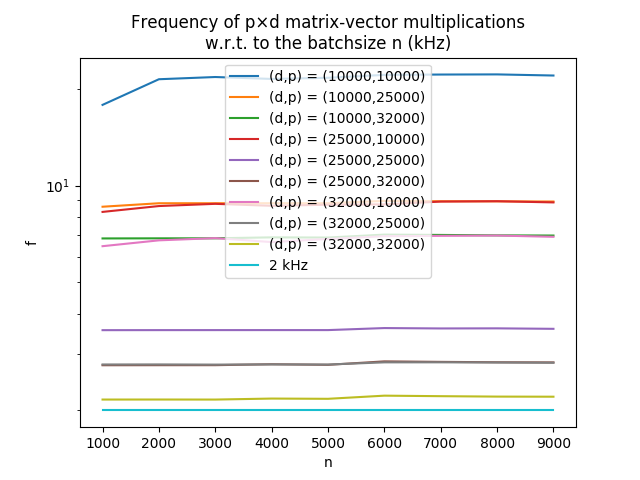
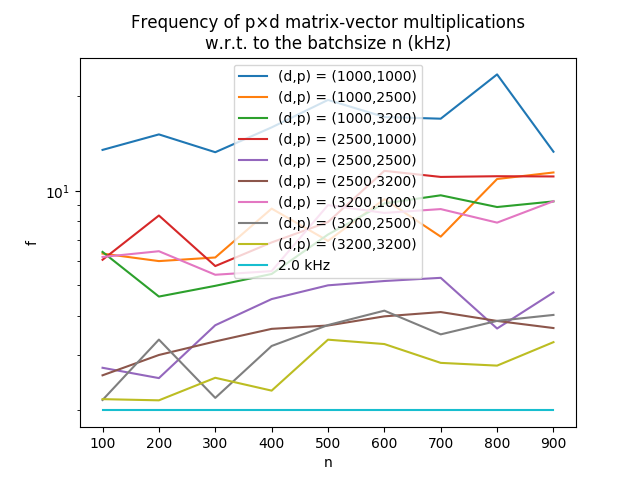
lighton test

diff --git a/opu-gpu_energy/lighton_generate_plot.py b/opu-gpu_energy/lighton_generate_plot.py
@@ -1,0 +1,147 @@
+import matplotlib.pyplot as plt
+from matplotlib.colors import ListedColormap
+
+import pandas as pd
+import numpy as np
+
+import pickle
+
+
+# define the parameters to be used
+max_input_size = 1e6
+max_output_size = 2e6
+gen = 2
+if gen == 2:
+    opu_text = "Gen 2 (2kHz)"
+elif gen == 3:
+    opu_text = "Gen 3 (up to 8kHz)"
+
+gpu_model = "NVIDIA Tesla V100 16GB"
+cpu_model = "Intel Xeon E5-1650 v3 3.50GHz"
+ram = 126
+
+# load timings and compute frequencies for CPU and GPU
+res = pickle.load(open('gpu_timings.pkl', 'rb'))
+s = pd.Series(res)
+x = 1 / s.unstack()
+x_gpu = x.values
+
+res = pickle.load(open('cpu_timings.pkl', 'rb'))
+s = pd.Series(res)
+x = 1 / s.unstack()
+x_cpu = x.values
+
+# experiments for CPU and GPU have been performed on the same ranges of input and output sizes
+input_sizes = s.unstack().index.values
+output_sizes = s.unstack().columns.values
+
+
+def get_opu_speed(input_size, output_size, gen='2'):
+    """
+    Function returning the speed in kHz at which the OPU can be used for given input and output sizes.
+    We assume input_size <= 1M and output_size <= 2M (i.e. the OPU can be used).
+    """
+
+    if gen == 2:
+        return 2
+    elif gen == 3:
+        if input_size <= 145e3 and output_size <= 81e3:
+            return 8
+        elif input_size <= 290e3 and output_size <= 81e3:
+            return 6.3
+        elif input_size <= 583e3 and output_size <= 163e3:
+            return 3.8
+        elif input_size <= 1e6 and output_size <= 326e3:
+            return 1.9
+        elif input_size <= 1e6 and output_size <= 600e3:
+            return 1
+        else:
+            return 0.34
+    else:
+        raise ValueError("gen must be 2 or 3")
+
+
+# compute the matrix telling us which device is the fastest depending on input and output size
+C = np.empty((len(input_sizes), len(output_sizes)), dtype=np.int)
+for i, n in enumerate(input_sizes):
+    for j, m in enumerate(output_sizes):
+        cpu = x_cpu[i, j] / 1000
+        gpu = x_gpu[i, j] / 1000
+
+        if np.isnan(gpu) and np.isnan(cpu):  # if nor CPU nor GPU works, just check if OPU does
+            if n <= max_input_size and m <= max_output_size:
+                C[i, j] = 2  # OPU
+            else:
+                C[i, j] = 3  # nothing
+            continue
+        elif np.isnan(gpu):
+            max_speed = cpu
+        else:  # gpu is always nan when cpu is, so no need for another elif
+            max_speed = max(cpu, gpu)
+
+        if n <= max_input_size and m <= max_output_size and max_speed <= get_opu_speed(n, m, gen):
+            C[i, j] = 2
+        else:
+            if x_cpu[i, j] < x_gpu[i, j]:
+                C[i, j] = 1
+            else:
+                C[i, j] = 0
+
+# in my experiments, we weren't interested in all the input and output sizes I computed
+start_r, end_r = 2, 13  # for output size (rows in the graph)
+start_c, end_c = 4, 13  # for input size (columns in the graph)
+
+# take coordinates we're interested in and transpose so coordinates correspond to what we want in the graph
+# that is: input size horizontally (columns) and output size vertically (rows)
+D = C[start_c:end_c,start_r:end_r].T
+a = np.maximum(x_cpu, x_gpu)[start_c:end_c, start_r:end_r]
+n, m = a.shape
+
+# we now correct the fact that np.maximum propagates NaNs
+b = a.copy()
+reduced_cpu = x_cpu[start_c:end_c, start_r:end_r]
+for i in range(n):
+    for j in range(m):
+        if np.isnan(a[i,j]) and not np.isnan(reduced_cpu[i,j]):
+            b[i,j] = reduced_cpu[i,j]
+b = b.T
+
+# the actual plotting begins here
+fig, ax = plt.subplots(figsize=(18, 18))
+
+# depending on what you plot, you can have 3 or 4 colors, uncomment what you need
+#cmap = ListedColormap(['lightblue', 'orange', 'green', 'black'])
+cmap = ListedColormap(['lightblue', 'orange', 'green'])
+cax = ax.matshow(D, cmap=cmap, origin='lower')
+
+# the magic numbers make the bar as tall as the plot
+#cbar = fig.colorbar(cax, ticks=np.linspace(0,3,9)[1::2], fraction=0.046, pad=0.04)
+#cbar.ax.set_yticklabels((['CPU', 'GPU', 'OPU', 'None']), fontsize=12)
+cbar = fig.colorbar(cax, ticks=np.linspace(0,2,7)[1::2], fraction=0.046, pad=0.04)
+cbar.ax.set_yticklabels((['CPU', 'GPU', 'OPU']), fontsize=12)
+
+ax.xaxis.tick_bottom()
+ax.set_xticks(np.arange(n))
+ax.set_xticklabels(['{:.1e}'.format(s) for s in input_sizes[start_c:end_c]], fontsize=14)
+ax.set_yticks(np.arange(m))
+ax.set_yticklabels(['{:.1e}'.format(s) for s in output_sizes[start_r:end_r]], fontsize=14)
+
+ax.set_xlabel('Input size', fontsize=14)
+ax.set_ylabel('Output size', fontsize=14)
+
+title = "Frequency of matrix-vector multiplication in kHz, and speed-up provided by OPU"
+ax.set_title('{}\nOPU: {}\nGPU: {}\nCPU: {} ({} RAM)'.format(title, opu_text, gpu_model, cpu_model, ram), fontsize=18)
+
+for i in range(n):
+    for j in range(m):
+        # about the use of i and j: dude, trust me
+        if D[j,i] == 2:
+            # speedup provided by the OPU in the zone it is fastest
+            c = 1000 * get_opu_speed(input_sizes[i+start_c], output_sizes[j+start_r], gen) / b[j,i]
+        else:
+            c = b[j,i] / 1000
+        ax.text(i, j, '{:.4g}'.format(c), va='center', ha='center', fontsize=15)
+
+plt.tight_layout()
+fig.savefig('test.png')
+

diff --git a/opu-gpu_energy/lighton_speed_test.py b/opu-gpu_energy/lighton_speed_test.py
@@ -1,0 +1,77 @@
+import numpy as np
+import torch
+torch.backends.cudnn.benchmark = True
+torch.cuda.set_device(1)
+from time import time
+import pickle
+
+use_gpu = True
+torch_instead_of_numpy = False  # if use_gpu is False (torch is usually slightly faster than numpy on CPU)
+sizes = np.floor(np.logspace(0, 7, 15)).astype(np.int)
+dry_runs = 10
+averaged_runs = 5
+
+res = {}
+
+for input_size in sizes:
+    print(input_size)
+    try:
+        if use_gpu:
+            x = torch.cuda.FloatTensor(input_size).normal_()
+        else:
+            if torch_instead_of_numpy:
+                x = torch.FloatTensor(input_size).normal_()
+            else:
+                x = np.random.randn(input_size).astype(np.float32)
+
+        for output_size in sizes:
+            print(output_size)
+            if not use_gpu and output_size*input_size>100000:
+                    res[(input_size, output_size)] = 1000000
+            else:
+                try:
+                    if use_gpu:
+                        M = torch.cuda.FloatTensor(output_size, input_size).normal_()
+                    else:
+                        if torch_instead_of_numpy:
+                            M = torch.FloatTensor(output_size, input_size).normal_()
+                        else:
+                            M = np.random.randn(output_size, input_size).astype(np.float32)
+
+                    for i in range(dry_runs):
+                        if use_gpu or torch_instead_of_numpy:
+                            y = torch.mv(M, x)
+                        else:
+                            y = np.dot(M, x)
+
+                    if use_gpu:
+                        torch.cuda.synchronize()
+
+                    times = []
+                    for i in range(averaged_runs):
+                        t1 = time()
+                        if use_gpu or torch_instead_of_numpy:
+                            y = torch.mv(M, x)
+                        else:
+                            y = np.dot(M, x)
+
+                        if use_gpu:
+                            torch.cuda.synchronize()
+                        t2 = time()
+                        times.append(t2-t1)
+
+                    res[(input_size, output_size)] = np.mean(times)
+
+                except:
+                    print('exiting in inner loop')
+                    torch.cuda.empty_cache()
+                    res[(input_size, output_size)] = np.nan
+
+    except:
+        print('exiting in outer loop')
+        torch.cuda.empty_cache()
+        res[input_size] = np.nan
+
+with open('gpu_timings_numpy.pkl', 'wb') as f:
+    pickle.dump(res, f)
+

diff --git a/opu-gpu_energy/optimal_batchsize_gpu.py b/opu-gpu_energy/optimal_batchsize_gpu.py
@@ -17,9 +17,9 @@ def sync():
 ### EXPERIMENT SETTINGS
 # -------------
 repetitions = 1 # repeat the whole experiment and take the mean. Hurt GPU memory (ctrl-F "x.to(device)")
-n_list = [1000*(i+1) for i in range(9)] # Number of points to be projected
-d_list = [10000,25000,32000] # Their dimension
-p_list = [10000,25000,32000] # Dimension of their projections # [100,320,1000]#
+n_list = tuple(1000*(i+1) for i in range(9)) # Number of points to be projected
+d_list = (10000,25000,32000) # Their dimension
+p_list = (10000,25000,32000) # Dimension of their projections # [100,320,1000]#
 r = .5 # proportion of ones in the data
 dtype = torch.float32 # torch.float16, even faster
 only_real = False # real weight instead of complex numbers.
@@ -41,8 +41,8 @@ for i in range(len(n_list)):
             print("Building the weight matrix...", end = " ")
             e1_lgpu = time.time()
             sync()
-            real = torch.randn(d,p,dtype=dtype,device=device) # complex weights
-            if not only_real:
+            real = torch.randn(d,p,dtype=dtype,device=device)
+            if not only_real: # complex weights
                 imaginary = torch.randn(d,p,dtype=dtype,device=device)
             sync()
             e2_lgpu = time.time()
@@ -80,11 +80,13 @@ for i in range(len(n_list)):
 
 import matplotlib
 import matplotlib.pyplot as plt
-    
+
+opu_frequency = 2000 
+
 for j in range(len(d_list)):
     for k in range(len(p_list)):
         plt.plot(n_list,f_gpu[:,j,k]/1000,label="(d,p) = ("+str(d_list[j])+","+str(p_list[k])+")")
-plt.plot(n_list,tuple(2 for i in range(len(n_list))),label="2 kHz")
+plt.plot(n_list,tuple(opu_frequency/1000 for i in range(len(n_list))),label=str(round(opu_frequency/1000,6))+" kHz")
 plt.legend()
 plt.title("Frequency of p×d matrix-vector multiplications\nw.r.t. to the batchsize n (kHz)")
 plt.xlabel("n")
@@ -92,5 +94,5 @@ plt.ylabel("f")
 plt.yscale("log")
 plt.savefig("./optimal_batchsize.png")
 
-#opu_frequency = 2000 
+#
 #print("Speed-up of an OPU at "+str(round(opu_frequency/1000,6))+" kHz: "+str(round(opu_frequency/frequence,6))+".")
